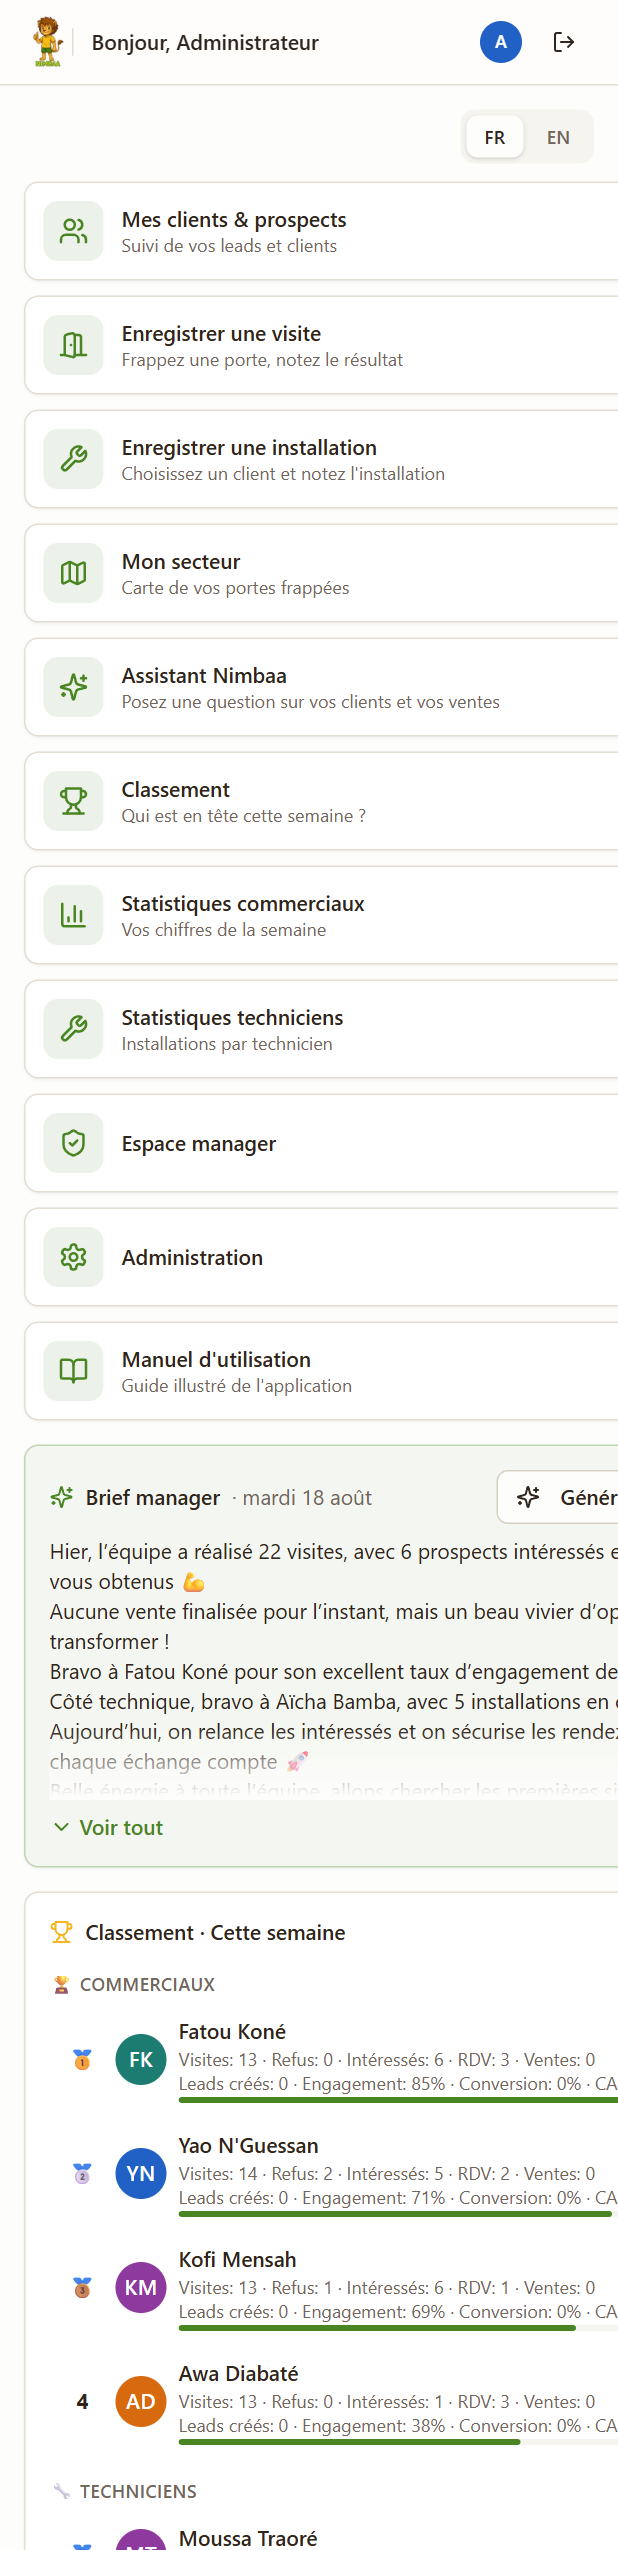
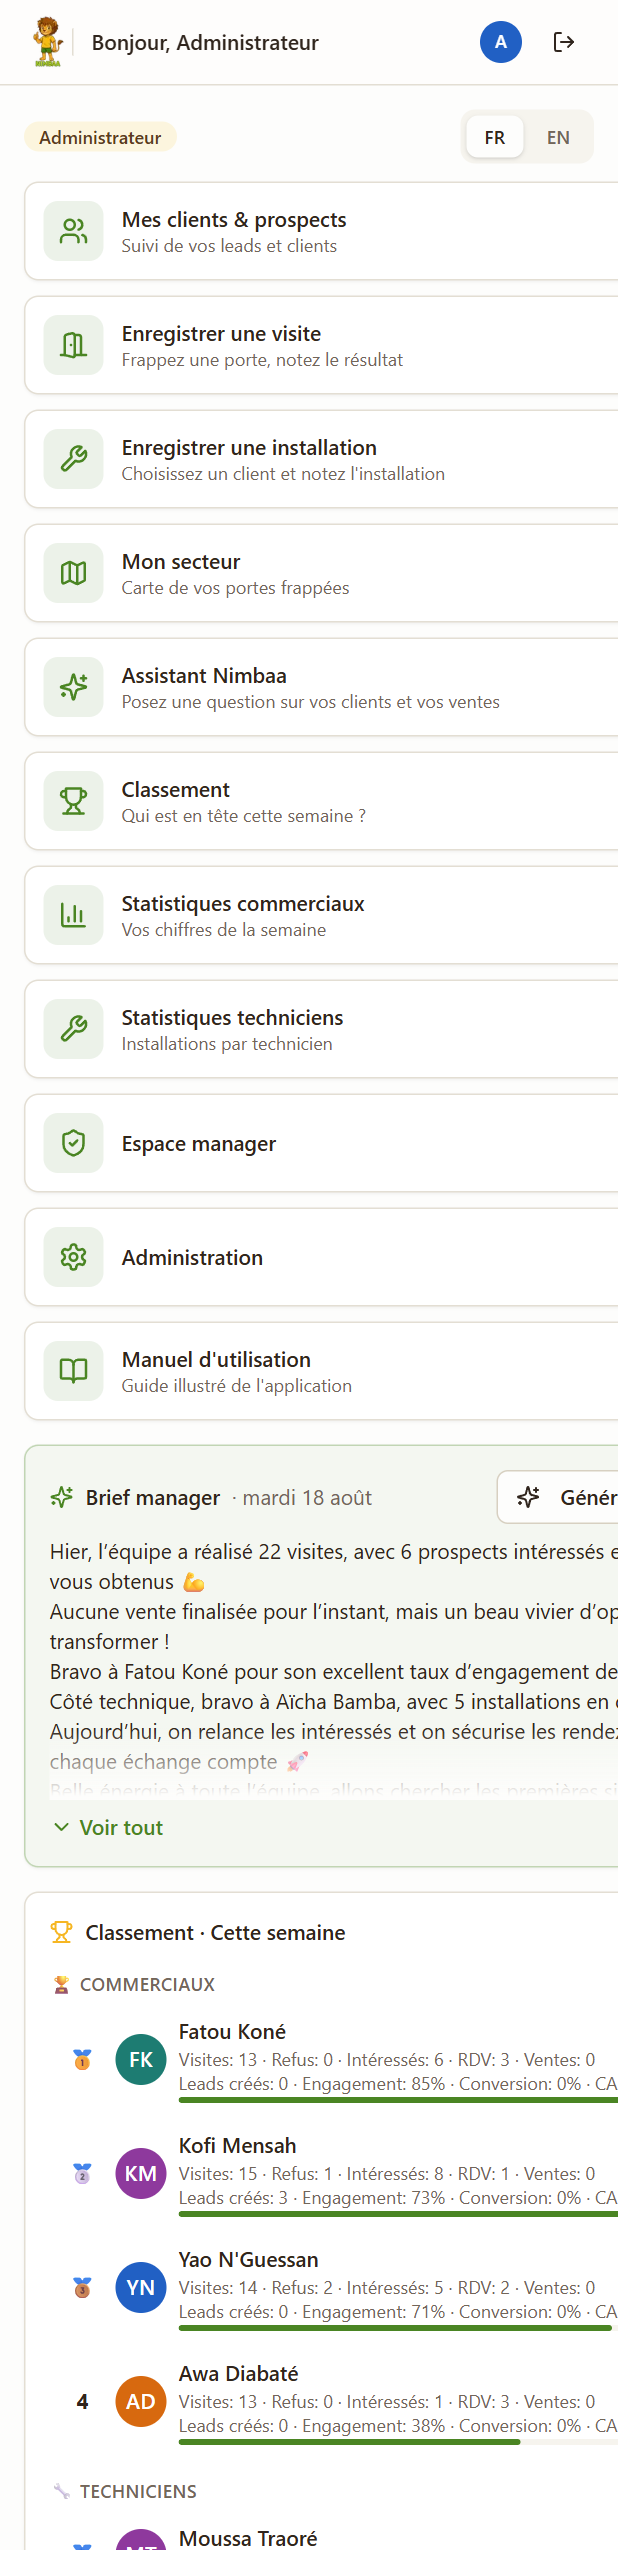
Manual: catch up with nine commits of changes
The guide had drifted behind the app again, and one line in it was plainly
wrong: section 4 still called the contact "optionnel" and said the app creates
it "automatiquement", which stopped being true when a name became required.

Corrected and added:
- 4 · the two ways to say who you visited, the name now required on an engaged
  outcome, and why the phone is asked on the spot
- 5e · Créer un prospect sans visite — the new page, and the three ways a
  customer can enter the system at all
- 5b · who may delete an affaire now that the corbeille is guarded
- 10b · Quand on fait les deux métiers — a commercial with chantiers sees his
  chantier figures, a technician with visites sees his visit figures, and
  neither panel appears empty
- 2 · the role badge, plus what to do when the browser auto-translates the
  English UI into machine French

Three screenshots reshot (accueil with the badge, the visit form's client card,
a commercial's chantier block) and two new ones.

Changed region(s): [[0.3074, 0.8365, 0.4919, 0.8984], [0.1845, 0.8365, 0.2767, 0.9294], [0.0307, 0.031, 0.2767, 0.062]]

diff --git a/public/manuel.html b/public/manuel.html
@@ -357,7 +357,11 @@
     <h3>Installer l'application sur l'écran d'accueil</h3>
     <p>Nimbaa CRM est une application web installable (PWA). Sur Android/Chrome : menu ⋮ → <span class="btn-ref">Ajouter à l'écran d'accueil</span>. Sur iPhone/Safari : Partager → <span class="btn-ref">Sur l'écran d'accueil</span>. L'application s'ouvre alors comme une app normale, en plein écran.</p>
     <h3>Changer la langue</h3>
-    <p>En haut de l'écran d'accueil, le sélecteur <span class="btn-ref">FR</span> / <span class="btn-ref">EN</span> bascule toute l'interface entre français et anglais, immédiatement.</p>
+    <p>En haut de l'écran d'accueil, le sélecteur <span class="btn-ref">FR</span> / <span class="btn-ref">EN</span> bascule toute l'interface entre français et anglais, immédiatement. En face, une pastille rappelle <strong>le rôle avec lequel vous êtes connecté</strong> — <em>Commercial</em> en vert, <em>Technicien</em> en bleu, <em>Manager</em> en ambre, <em>Administrateur</em> en gris. Utile sur un téléphone partagé, où l'on ne sait pas toujours qui a ouvert la session.</p>
+    <div class="callout warn">
+      <span class="lbl">L'application est en anglais ?</span>
+      <p>Si les libellés paraissent traduits à la machine — « Carte de vos coups » au lieu de « Carte de vos portes frappées » — c'est que la session est en <strong>EN</strong> et que le navigateur du téléphone traduit tout seul. Touchez <span class="btn-ref">FR</span> : vous retrouvez le français d'origine, écrit pour le terrain d'Abidjan.</p>
+    </div>
     <div class="callout danger">
       <span class="lbl">Sécurité</span>
       <p>Au premier accès, changez votre mot de passe dans <strong>Profil</strong> (icône ronde en haut à droite). Ne partagez jamais vos identifiants.</p>
@@ -423,7 +427,7 @@
     <ol>
       <li><strong>Photo d'arrivée.</strong> En arrivant, touchez la case verte <span class="btn-ref">ARRIVÉE</span>. La photo est horodatée et géolocalisée automatiquement ; l'adresse détectée s'affiche plus bas.</li>
       <li><strong>Résultat.</strong> Choisissez l'issue de la visite : <em>Pas de réponse</em>, <em>Absent</em>, <em>Refus</em>, <em>Intéressé</em>, <em>Rendez-vous</em> ou <em>Vendu</em>.</li>
-      <li><strong>Contact (optionnel).</strong> <span class="btn-ref">Lier à un contact existant</span> rattache la visite à une fiche déjà créée. Sans lien, si le résultat est <em>Vendu</em>, <em>Rendez-vous</em> ou <em>Intéressé</em>, l'application crée automatiquement le contact et l'affaire.</li>
+      <li><strong>Qui vous visitez.</strong> Deux chemins côte à côte, en haut du formulaire : <span class="btn-ref">Lier à un contact existant</span> pour une fiche déjà créée, ou <strong>ou nommez un nouveau prospect</strong> — son nom, et son <strong>téléphone</strong> pendant que vous êtes devant lui. Le contact et son affaire sont créés à l'enregistrement si le résultat est <em>Vendu</em>, <em>Rendez-vous</em> ou <em>Intéressé</em>.</li>
       <li><strong>Notes.</strong> Tapez, ou touchez <span class="btn-ref">🎤 Dicter</span> et parlez : <strong>les mots s'écrivent pendant que vous parlez</strong> (voir juste après).</li>
       <li><strong>Photo de fin.</strong> Au moment de repartir, touchez la case orange <span class="btn-ref">FIN</span>. C'est elle qui referme la visite.</li>
       <li><span class="btn-ref">Enregistrer</span>.</li>
@@ -439,6 +443,14 @@
     </table></div>
     <p>La case <strong>FIN</strong> reste <strong>verrouillée</strong> (cadenas) tant que la photo d'arrivée n'est pas prise : on ne peut pas repartir avant d'être arrivé. La pastille en haut à droite indique où vous en êtes : <em>Arrivée + fin</em> → <em>Photo de fin manquante</em> → <em>Complet</em>. Tant que la paire n'est pas complète, le bouton <span class="btn-ref">Enregistrer</span> reste inactif.</p>
 
+    <div class="callout warn">
+      <span class="lbl">Un prospect a toujours un nom</span>
+      <p>Sur un résultat <em>Vendu</em>, <em>Rendez-vous</em> ou <em>Intéressé</em>, l'enregistrement est <strong>bloqué</strong> tant que la visite ne dit pas chez qui elle a eu lieu : liez un contact, ou saisissez un nom. Sans cela on créait des fiches « (sans nom) » que personne ne pouvait identifier ensuite. Les autres résultats — porte sans réponse, absent, refus — n'ont besoin de rien.</p>
+    </div>
+    <div class="callout tip">
+      <span class="lbl">Le téléphone se demande sur place</span>
+      <p>Le numéro est <strong>facultatif</strong> — un gérant absent ne doit pas empêcher d'enregistrer la visite — mais c'est par lui que passe la relance, et y revenir plus tard ne se fait jamais. Demandez-le pendant que vous y êtes.</p>
+    </div>
     <div class="callout tip">
       <span class="lbl">Pourquoi deux photos</span>
       <p>L'écart entre les deux photos mesure le <strong>temps réellement passé chez le client</strong>. C'est ce qui permet de valoriser le travail de terrain — et ce qui rend les chiffres incontestables. Une seule photo ne prouve qu'un instant ; la paire prouve une présence.</p>
@@ -486,7 +498,8 @@
   <div class="txt">
     <h2>5 · Clients, prospects &amp; conversion</h2>
     <div class="roles"><span class="chip com">Commercial</span><span class="chip man">Manager</span></div>
-    <p><span class="btn-ref">Mes clients &amp; prospects</span> liste vos fiches, avec recherche et filtres. Chaque fiche regroupe :</p>
+    <p><span class="btn-ref">Mes clients &amp; prospects</span> liste vos fiches, avec recherche et filtres. En haut de la liste, <span class="btn-ref">+ Nouveau prospect</span> crée une fiche sans passer par une visite (voir 5e).</p>
+    <p>Chaque fiche regroupe :</p>
     <ul>
       <li><strong>Coordonnées</strong> — le téléphone est saisi avec l'indicatif pays (🇨🇮 +225 par défaut, modifiable). Le bouton <strong>WhatsApp</strong> ouvre une conversation directement, avec un brouillon de message proposé par l'IA.</li>
       <li><strong>Interlocuteurs</strong> — les personnes chez le client (rôle par défaut : <em>Gérant</em>), reliables aux affaires.</li>
@@ -539,6 +552,7 @@
     <div class="callout warn">
       <span class="lbl">Étape choisie par erreur</span>
       <p>Passer une affaire en <em>Gagné</em> crée l'abonnement et la commission. Remettre l'affaire sur une étape en cours ne les supprime pas : prévenez votre <strong>manager</strong>, qui peut résilier l'abonnement depuis la fiche client.</p>
+      <p>La <strong>corbeille</strong> d'une affaire ne s'affiche que tant qu'elle n'a rien produit : une affaire <em>ouverte</em> et sans abonnement se supprime librement. Dès qu'elle est gagnée, perdue ou porteuse d'un abonnement, seul un <strong>manager</strong> peut la supprimer — la suppression emporte aussi ses chantiers et leurs passages.</p>
     </div>
     <p><strong>Prospect perdu ?</strong> Choisissez l'étape <strong>Perdu</strong>. Si le contact n'a plus aucune affaire ouverte ni gagnée, il bascule dans l'onglet <em>Perdus</em> — sa fiche et son historique restent consultables.</p>
   </div>
@@ -587,6 +601,29 @@
   <figure class="phone">
     <img src="/manuel/21-history-streams.png" alt="Historique d'un client : lignes à barre verte pour les visites et à barre bleue pour les interventions, avec durée et résultat" />
     <figcaption>Vert = commercial, bleu = technique. La même liste raconte les deux métiers.</figcaption>
+  </figure>
+</section>
+
+<!-- ---- 5e. Créer un prospect sans visite ---- -->
+<section class="screen sub" id="nouveau-prospect">
+  <div class="txt">
+    <h3>Créer un prospect sans visite</h3>
+    <p>Tous les prospects ne se rencontrent pas sur un pas de porte. Un numéro donné au téléphone, une recommandation, une carte échangée au marché : <span class="btn-ref">+ Nouveau prospect</span>, en haut de la liste des clients, enregistre la fiche directement.</p>
+    <ol>
+      <li><strong>Nom de l'enseigne</strong> — le seul champ obligatoire.</li>
+      <li><strong>Téléphone</strong> — avec l'indicatif 🇨🇮 +225 par défaut, modifiable.</li>
+      <li><strong>Adresse</strong> — quartier, rue, repère.</li>
+      <li><span class="btn-ref">Créer le prospect</span> vous dépose sur sa fiche, où se saisissent le type d'activité, les tags et l'affaire.</li>
+    </ol>
+    <p>La fiche vous est <strong>attribuée</strong>, comme un prospect créé depuis une visite. Elle apparaît aussitôt dans l'onglet <em>Prospects</em>.</p>
+    <div class="callout tip">
+      <span class="lbl">Les trois façons d'enregistrer un client</span>
+      <p>Une <strong>visite</strong> avec un résultat engagé (section 4) · <span class="btn-ref">+ Nouveau prospect</span> pour un contact obtenu autrement · un <strong>import CSV</strong> pour une liste entière, réservé à l'administrateur (section 14). Aucune de ces trois voies ne peut créer une fiche sans nom.</p>
+    </div>
+  </div>
+  <figure class="phone">
+    <img src="/manuel/25-new-prospect.png" alt="Formulaire Nouveau prospect : nom de l'enseigne, téléphone avec indicatif +225, adresse, bouton Créer le prospect" />
+    <figcaption>Un nom suffit. Le reste de la fiche se remplit ensuite.</figcaption>
   </figure>
 </section>
 
@@ -779,10 +816,29 @@
     <h3>Mes passages</h3>
     <p>Tout en bas de la page, le <strong>journal de vos passages</strong> : chaque visite des 14 derniers jours avec l'heure d'arrivée, l'heure de départ, la durée et vos deux photos. C'est votre relevé personnel — celui qui atteste du temps que vous passez chez les clients. Le détail de sa lecture est décrit en section 12.</p>
     <p>La page <span class="btn-ref">Statistiques techniciens</span> suit la même logique pour les installations, avec le même journal en bas de page.</p>
+
   </div>
   <figure class="phone">
     <img src="/manuel/09-stats.png" alt="Statistiques commerciales avec filtres par secteur, type et tag" />
     <figcaption>Statistiques : vos chiffres, filtrables ; « Mes commissions » en bas de page.</figcaption>
+  </figure>
+</section>
+
+<!-- ---- 10b. Les deux métiers ---- -->
+<section class="screen sub" id="deux-metiers">
+  <div class="txt">
+    <h3>Quand on fait les deux métiers</h3>
+    <p>Un commercial peut ouvrir une intervention, un technicien peut enregistrer une visite (sections 7b et 4) — vos statistiques suivent ce que vous faites réellement :</p>
+    <div class="tablewrap"><table>
+      <tr><th>Vous êtes</th><th>Ce qui s'ajoute à vos statistiques</th></tr>
+      <tr><td><span class="chip com">Commercial</span> avec des chantiers</td><td>Un bloc <strong>Statistiques techniciens</strong> : faites (7 j / 30 j), en cours, retours, répartition par statut et carte de vos chantiers.</td></tr>
+      <tr><td><span class="chip tec">Technicien</span> avec des visites</td><td>Un bloc <strong>Mes visites</strong> : visites (7 j / 30 j), engagées, ventes, et la répartition des résultats.</td></tr>
+    </table></div>
+    <p>Ces blocs <strong>n'apparaissent que si vous avez ce travail-là</strong> : un commercial qui ne fait que du porte-à-porte ne voit pas de panneau chantiers vide, et inversement. Dans les deux cas ce sont <strong>vos</strong> chiffres — jamais ceux de l'équipe.</p>
+  </div>
+  <figure class="phone">
+    <img src="/manuel/26-cross-stats.png" alt="Bloc Statistiques techniciens sur la page d'un commercial : faites 7 j et 30 j, en cours, retours" />
+    <figcaption>Chez un commercial qui a ouvert des interventions : ses chantiers, sur sa propre page.</figcaption>
   </figure>
 </section>
 
